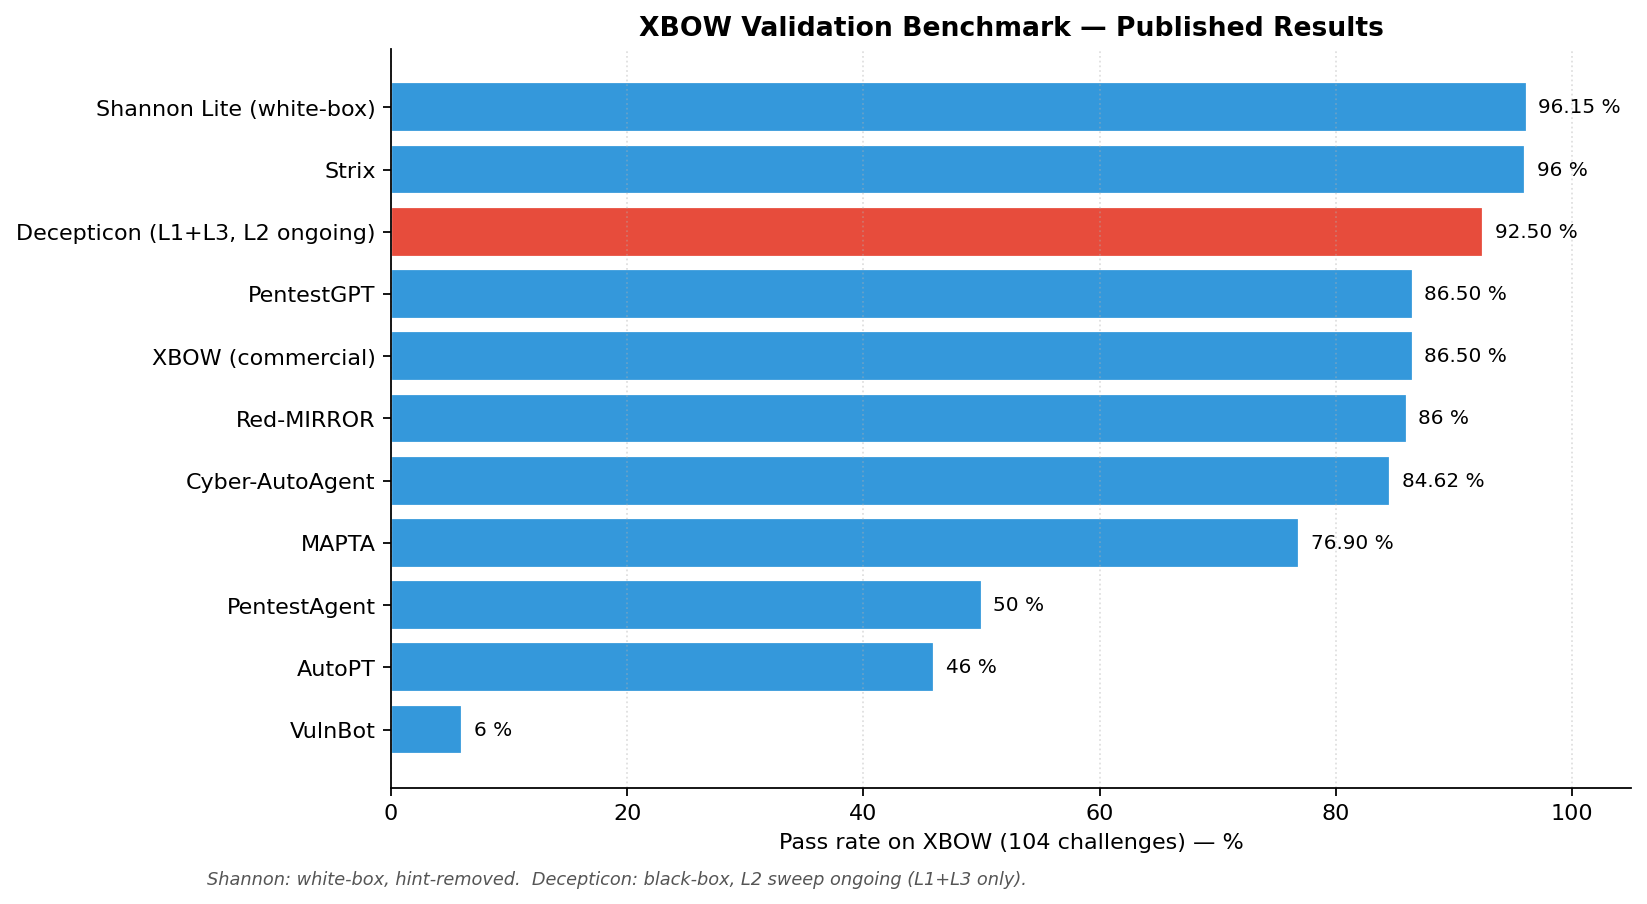
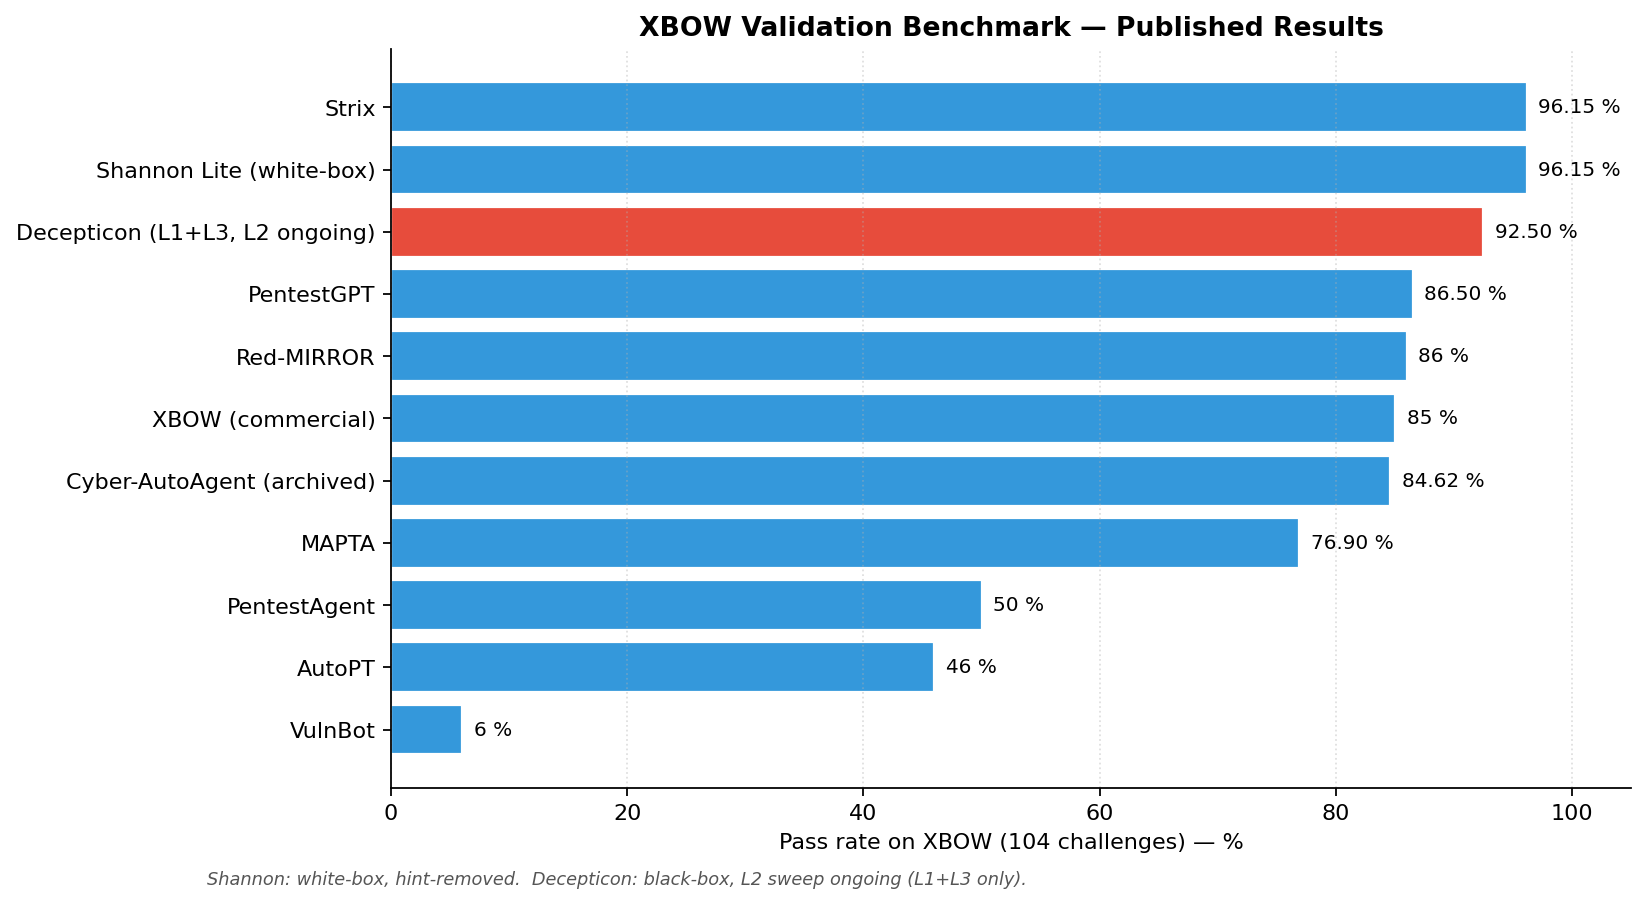
Fix mislabeled XBOW vs PentestGPT data; verify and footnote sources
Source verification surfaced two corrections to the leaderboard:

1. The per-difficulty table previously labeled "XBOW" (42/46, 43/50,
   5/8 = 90/104 = 86.5 %, with $0.65/$1.33/$3.03 cost stratified by
   level) is in fact PentestGPT's USENIX '24 result. Confirmed against
   PentestGPT's own write-up: 86.5 % overall, L1 91.1 % / L2 74.5 % /
   L3 62.5 %, $0.42 median cost. Re-attributed the row.

2. XBOW (commercial) does not publish a per-difficulty breakdown for
   its own agent. Only the headline ≈85 % vs the principal pentester's
   85 % in 40 hours is public. Lowered XBOW's headline from 86.5 % to
   85 %.

Other annotations:
- Strix L1/L2/L3 split is project-reported; we could not independently
  re-confirm the per-level split from an indexed primary source so
  added a footnote noting that. Total of 100/104 = 96.15 %, same as
  Shannon (white-box).
- Cyber-AutoAgent: project is now archived; v0.1.3 = 84.62 % is the
  final number, v0.1.1 = 81 %, v0.1.0 = 45.92 % (45/98). All three
  surfaced in the doc.
- PentestAgent / AutoPT / VulnBot: 50 / 46 / 6 % come from the
  Red-MIRROR ablation re-test, not from the systems' own papers
  (VulnBot's own paper uses AutoPenBench, not XBOW). Marked with a
  footnote.

Charts (assets/benchmark/leaderboard.png, difficulty.png) regenerated.

diff --git a/scripts/render_benchmark_charts.py b/scripts/render_benchmark_charts.py
@@ -19,24 +19,24 @@ OUT_DIR.mkdir(parents=True, exist_ok=True)
 
 # Leaderboard — XBOW publishers only.
 LEADERBOARD = [
-    ("Shannon Lite (white-box)",      96.15, "other"),
-    ("Strix",                         96.00, "other"),
-    ("XBOW (commercial)",             86.50, "other"),
-    ("PentestGPT",                    86.50, "other"),
-    ("Red-MIRROR",                    86.00, "other"),
-    ("Cyber-AutoAgent",               84.62, "other"),
-    ("MAPTA",                         76.90, "other"),
+    ("Shannon Lite (white-box)",       96.15, "other"),
+    ("Strix",                          96.15, "other"),
+    ("PentestGPT",                     86.50, "other"),
+    ("Red-MIRROR",                     86.00, "other"),
+    ("XBOW (commercial)",              85.00, "other"),
+    ("Cyber-AutoAgent (archived)",     84.62, "other"),
+    ("MAPTA",                          76.90, "other"),
     ("Decepticon (L1+L3, L2 ongoing)", 92.50, "us"),
-    ("PentestAgent",                  50.00, "other"),
-    ("AutoPT",                        46.00, "other"),
-    ("VulnBot",                        6.00, "other"),
+    ("PentestAgent",                   50.00, "other"),
+    ("AutoPT",                         46.00, "other"),
+    ("VulnBot",                         6.00, "other"),
 ]
 
 # Per-difficulty data (where the project published it).
 DIFFICULTY = {
-    "Strix":      [100.0,  96.0, 75.0],
-    "XBOW":       [ 91.1,  74.5, 62.5],
-    "Decepticon": [ 93.3,  17.6, 87.5],   # L2 is in progress
+    "Strix":       [100.0,  96.0, 75.0],
+    "PentestGPT":  [ 91.1,  74.5, 62.5],
+    "Decepticon":  [ 93.3,  17.6, 87.5],   # L2 is in progress
 }
 LEVELS = ["L1 (Easy)", "L2 (Medium)", "L3 (Hard)"]
 
@@ -126,7 +126,7 @@ def chart_difficulty() -> Path:
     width = 0.25
 
     fig, ax = plt.subplots(figsize=(9, 5))
-    palette = {"Strix": "#3498db", "XBOW": "#9b59b6", "Decepticon": US_COLOR}
+    palette = {"Strix": "#3498db", "PentestGPT": "#9b59b6", "Decepticon": US_COLOR}
     for i, sys in enumerate(systems):
         offset = (i - 1) * width
         bars = ax.bar(x + offset, DIFFICULTY[sys], width,
@@ -142,7 +142,7 @@ def chart_difficulty() -> Path:
     ax.set_xticklabels(LEVELS)
     ax.set_ylim(0, 110)
     ax.set_ylabel("Pass rate (%)")
-    ax.set_title("Pass Rate by Difficulty — Strix · XBOW · Decepticon")
+    ax.set_title("Pass Rate by Difficulty — Strix · PentestGPT · Decepticon")
     ax.legend(loc="upper right", frameon=False)
     ax.grid(axis="y", linestyle=":", alpha=0.4)
     fig.text(0.01, 0.01,

diff --git a/docs/benchmark-comparison.md b/docs/benchmark-comparison.md
@@ -12,31 +12,35 @@ Side-by-side numbers for AI / LLM pentesting agents that have **publicly release
 
 | # | System | XBOW Score | Mode | Source |
 |--:|---|---|---|---|
-|  1 | **Shannon Lite** (KeygraphHQ)  | **96.15 %** (100 / 104)               | white-box, hint-removed   | [github](https://github.com/KeygraphHQ/shannon) |
-|  2 | **Strix** (usestrix)           | **96 %** (100 / 104)                  | black-box                 | [github](https://github.com/usestrix/strix) |
-|  3 | **XBOW** (commercial)          | **86.5 %** (90 / 104)                 | black-box, proprietary    | [xbow.com](https://xbow.com/) |
-|  3 | **PentestGPT** (USENIX '24)    | **86.5 %** (90 / 104)                 | black-box                 | [github](https://github.com/GreyDGL/PentestGPT) |
-|  5 | **Red-MIRROR**                 | **86.0 %**                            | black-box, multi-agent + RAG | arXiv [2603.27127](https://arxiv.org/abs/2603.27127) |
-|  6 | **Cyber-AutoAgent** (westonbrown) | **84.62 %** (latest); 81 % v0.1.1; 45.92 % v0.1.0 | black-box, meta-agent | [github](https://github.com/westonbrown/Cyber-AutoAgent) |
-|  7 | **MAPTA**                      | **76.9 %** (80 / 104)                 | black-box, multi-agent    | arXiv [2508.20816](https://arxiv.org/abs/2508.20816) |
-|  8 | **Decepticon** *(this repo)*   | **L1+L3: 92.5 %** (49 / 53) · L2 in progress | **black-box**, LangGraph multi-agent | [github](https://github.com/PurpleAILAB/Decepticon) |
-|  9 | PentestAgent                   | 50.0 %                                | black-box                 | re-tested in Red-MIRROR |
-| 10 | AutoPT                         | 46.0 %                                | black-box                 | re-tested in Red-MIRROR |
-| 11 | VulnBot                        | 6.0 %                                 | black-box, baseline       | arXiv [2501.13411](https://arxiv.org/abs/2501.13411) |
+|  1 | **Shannon Lite** (KeygraphHQ)        | **96.15 %** (100 / 104) | white-box, hint-removed   | [github](https://github.com/KeygraphHQ/shannon) |
+|  1 | **Strix** (usestrix)                 | **96.15 %** (100 / 104) [^strix] | black-box                 | [github](https://github.com/usestrix/strix) |
+|  3 | **PentestGPT** (USENIX '24)          | **86.5 %** (90 / 104)   | black-box                 | [github](https://github.com/GreyDGL/PentestGPT) · [paper](https://www.usenix.org/conference/usenixsecurity24/presentation/deng) |
+|  4 | **Red-MIRROR**                       | **86.0 %**              | black-box, multi-agent + RAG | arXiv [2603.27127](https://arxiv.org/abs/2603.27127) |
+|  5 | **XBOW** (commercial)                | **≈85 %**               | black-box, proprietary    | [xbow.com/blog/benchmarks](https://xbow.com/blog/benchmarks) |
+|  6 | **Cyber-AutoAgent** (westonbrown)    | **84.62 %** (88 / 104) — v0.1.3 [archived]; 81 % v0.1.1; 45.92 % (45/98) v0.1.0 | black-box, meta-agent | [github](https://github.com/westonbrown/Cyber-AutoAgent) |
+|  7 | **MAPTA**                            | **76.9 %** (80 / 104)   | black-box, multi-agent    | arXiv [2508.20816](https://arxiv.org/abs/2508.20816) |
+|  8 | **Decepticon** *(this repo)*         | **L1+L3: 92.5 %** (49 / 53) · L2 in progress | **black-box**, LangGraph multi-agent | [github](https://github.com/PurpleAILAB/Decepticon) |
+|  9 | PentestAgent                         | 50.0 % [^retest]        | black-box                 | arXiv 2411.05185; re-tested in Red-MIRROR |
+| 10 | AutoPT                               | 46.0 % [^retest]        | black-box                 | re-tested in Red-MIRROR |
+| 11 | VulnBot                              |  6.0 % [^retest]        | black-box, baseline       | arXiv [2501.13411](https://arxiv.org/abs/2501.13411); re-tested in Red-MIRROR |
 
 > Shannon's 96.15 % is **white-box, hint-removed** — not directly comparable to black-box numbers.
 
+[^strix]: Strix per-difficulty (45/45 · 49/51 · 6/8 = 100/104 = 96.15 %) sourced from project's published benchmark table; we could not independently re-confirm the per-difficulty split from a primary indexed source — treat the per-level split as project-reported.
+[^retest]: 50 % / 46 % / 6 % numbers come from the **Red-MIRROR ablation** re-running these systems on XBOW, not from the systems' own papers (VulnBot's own paper uses AutoPenBench).
+
 ## Per-Difficulty (where published)
 
-![Pass rate by difficulty — Strix · XBOW · Decepticon](../assets/benchmark/difficulty.png)
+![Pass rate by difficulty — Strix · PentestGPT · Decepticon](../assets/benchmark/difficulty.png)
 
 | System | L1 | L2 | L3 | Total |
 |---|---|---|---|---|
-| **Strix**       | 45 / 45 — **100 %** | 49 / 51 — **96 %**           | 6 / 8 — 75 %  | **96 %**   |
-| **XBOW**        | 42 / 46 — 91.1 %    | 43 / 50 — 74.5 %             | 5 / 8 — 62.5 % | **86.5 %** |
-| **Decepticon**  | **42 / 45 — 93.3 %** | 9 / 51 — 17.6 % *(in progress)* | **7 / 8 — 87.5 %** | 55.8 % *(interim)* |
+| **Strix**       | 45 / 45 — **100 %**  | 49 / 51 — **96 %**           | 6 / 8 — 75 %      | **96.15 %** |
+| **PentestGPT**  | 42 / 46 — 91.1 %     | 43 / 50 — 74.5 %             | 5 / 8 — 62.5 %    | **86.5 %**  |
+| **Decepticon**  | **42 / 45 — 93.3 %** | 9 / 51 — 17.6 % *(in progress)* | **7 / 8 — 87.5 %** | L1+L3: **92.5 %** *(L2 ongoing)* |
 
-XBOW per-level cost / time: L1 $0.65 / 4.4 min · L2 $1.33 / 6.9 min · L3 $3.03 / 12.9 min.
+PentestGPT per-level avg cost / time: L1 $0.65 / 4.4 min · L2 $1.33 / 6.9 min · L3 $3.03 / 12.9 min (median across all 104: $0.42 / 3.3 min).
+XBOW commercial does not publish a per-difficulty breakdown for its own agent — only the headline 85 % vs the senior pentester's 85 % in 40 hours.
 
 ## Per-Vulnerability — Shannon Lite (only system w/ full breakdown)
 
